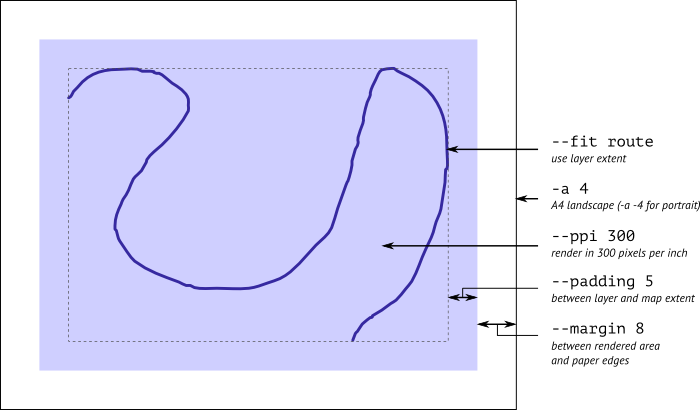
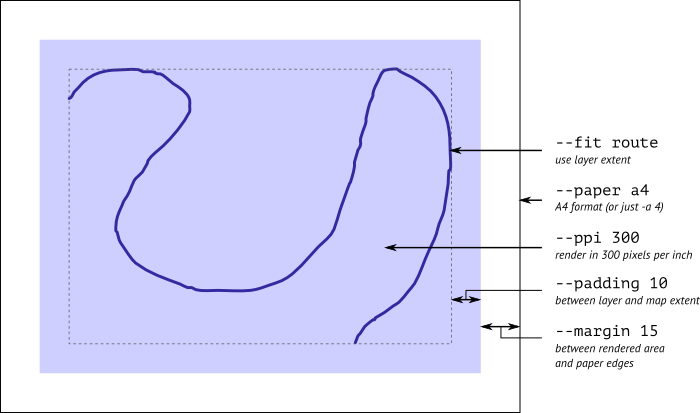
1.3

diff --git a/setup.py b/setup.py
@@ -2,7 +2,7 @@ from distutils.core import setup
 
 setup(
 		name='Nik4',
-		version='1.2.1',
+		version='1.3.0',
 		license='WTFPL',
 		description='Command-line interface to a Mapnik rendering toolkit',
 		long_description=open('README.txt').read(),

diff --git a/README.md b/README.md
@@ -40,6 +40,10 @@ and desired image size in pixels:
 
     nik4.py -c 0 51.477 --size-px 800 600 -z 17 openstreetmap-carto/osm.xml party-before.png
 
+Even simpler, instead of `--center` and `--zoom` options, just grab an URL of a place:
+
+    nik4.py --url http://www.openstreetmap.org/#map=16/55.9865/37.2160 osm.xml screenshot.png
+
 ### Make a georeferenced raster image
 
 Some people prefer planning routes with OziExplorer or similar programs. Or want to take a big
@@ -90,8 +94,9 @@ Let's say you need a 1:5000 image of a city center for printing on a A4 sheet wi
 
 What you get is a raster image, which when printed on an A4 with 300 dpi resolution, would have 10 mm margins
 and scale of exactly 50 m in a cm. See the picture above for explanation of margins and other options.
-By default paper is in landscape, horizontal orientation. To turn it portrait, use negative values
-for `-a` option. Or enter numbers by hand: `-d 150 100` will export a 15×10 postcard map.
+Formats can be `a0-a9`, `letter`, `card` and so on.  The paper orientation depends on a bbox;
+to force landscape or portrait orientation prepend the format with `+` or `-` characters.
+Or don't bother and enter numbers by hand: `-d 150 100` will export a 15×10 postcard map.
 
 ### Print a route
 
@@ -124,12 +129,32 @@ to export a clean map for the extent of your route (or any other) layer, use tho
 
 To enable drawing of the layer, use `--add-layers` option:
 
-    nik4.py --fit route --add-layers route,stops --ppi 150 -a -6 osm.xml route.png
+    nik4.py --fit route --add-layers route,stops --ppi 150 -a 6 osm.xml route.png
 
 You can list many layers, separating them with commas. And you can hide some layers:
 `--hide-layers contours,shields`. Obviously you can fit several layers at once, as well
 as specify a bounding box to include on a map. All layer names are case-sensitive, so if
 something does not appear, check your style file for exact layer names.
+
+### Print a different route each time
+
+Nik4 supports variables in XML styles: `${name:default}` defines a variable with the given name
+and its default value (which can be omitted, along with `:`). To substitute variable
+definitions with values or defaults, use `--vars` parameter. For example, let's make
+stroke width in the last example configurable, and request GPX file name:
+
+```xml
+    <LineSymbolizer stroke-width="${width:5}" stroke="#012d64" stroke-linejoin="round" stroke-linecap="round" />
+    ...
+      <Parameter name="file">${route}</Parameter>
+```
+
+Now to make an image of a route, use this command:
+
+    nik4.py --fit route --ppi 150 -a 6 --vars width=8 route=~/routes/day2.gpx osm.xml route.png
+
+Note that path would likely to be resolved relative to the XML file location. If you omit `route` variable
+in this example, you'll get an error message.
 
 ### Generate a vector drawing from a map
 

diff --git a/CHANGELOG.md b/CHANGELOG.md
@@ -1,6 +1,6 @@
 # Nik4 Change History
 
-## 1.3, *master*
+## 1.3, 22.05.2014
 
 * Fixed value order in world files.
 * Added more paper formats. [#7](https://github.com/Zverik/Nik4/issues/7)
